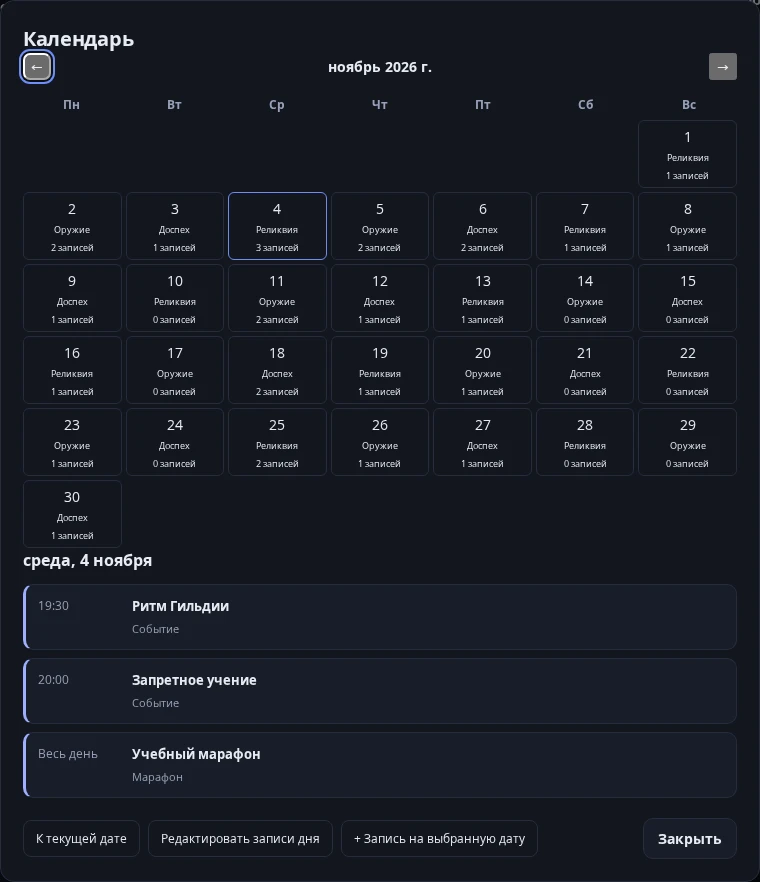
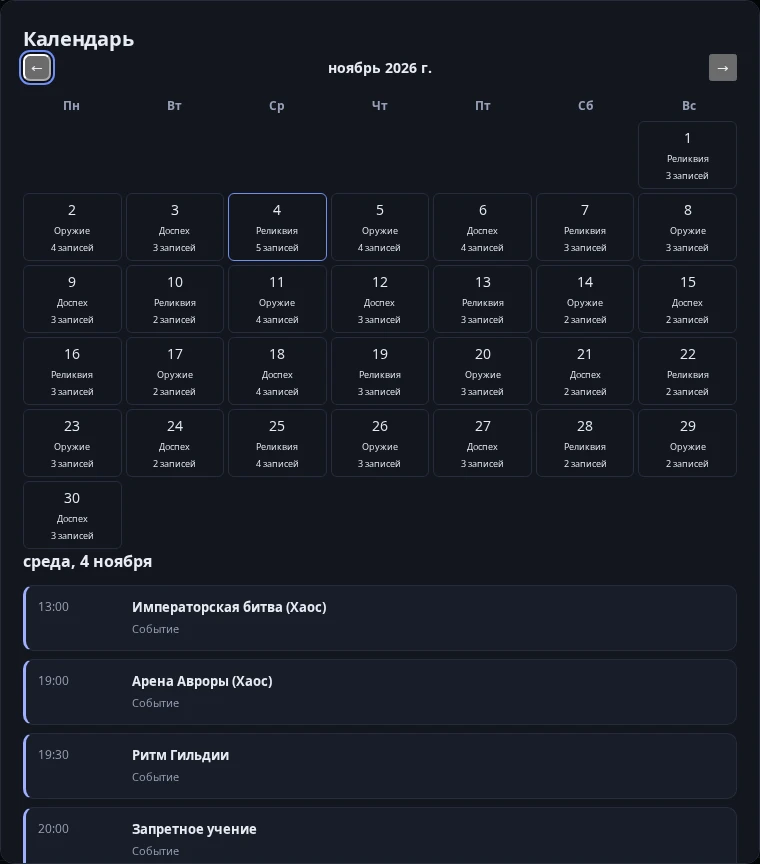
Add Today window decoration shortcut and Aurora/Imperial event schedules

diff --git a/js/modules/dashboard/referenceTodayView.js b/js/modules/dashboard/referenceTodayView.js
@@ -65,6 +65,7 @@ export function referencePromoStatus(p, today, now) {
     text: result.text
   };
 }
+const decorationState = { busy: false, text: '' };
 export function renderReferenceToday(input) {
   const s = connectedTodayState(input),
     date = selectedDate(s),
@@ -91,7 +92,7 @@ export function renderReferenceToday(input) {
        `<button type="button" data-day="${i - 1}" aria-pressed="${s.day.chosenDay === i - 1}"><small>${i === 1 ? 'Сегодня' : i === 0 ? 'Вчера' : new Date(`${d.date}T12:00:00Z`).toLocaleDateString('ru-RU', { weekday: 'short', timeZone: 'Europe/Moscow' })}</small>${pass(d.key, d.name)}<span>${d.date.slice(8)}.${d.date.slice(5, 7)}</span></button>`
    )
    .join('')}</div>
- <div class="rt-tabs" role="tablist" aria-label="Дела выбранного дня"><button type="button" role="tab" aria-selected="${tab === 'events'}" data-today-tab="events">События дня</button><button type="button" role="tab" aria-selected="${tab === 'todo'}" data-today-tab="todo">Список дел</button></div><div class="rt-events" role="tabpanel" aria-label="${tab === 'todo' ? 'Список дел' : 'События дня'}">${rows.map(e => `<div class="rt-event"><div>${tab === 'todo' ? `<label><input type="checkbox" data-today-todo="${esc(e.id || '')}" ${e.status === 'done' ? 'checked' : ''}>${esc(e.title)}</label>` : `<b>${esc(e.title)}</b>`}<small>${e.source === 'recurring' ? 'Автоматическое событие календаря' : e.source === 'marathon' ? 'Марафон' : 'Запись календаря'}</small></div><time>${esc(e.time || 'В течение дня')}${e.endTime ? '–' + esc(e.endTime) : ''}</time><button class="lg-text" data-today-event="${events.indexOf(e)}">Подробнее ↗</button></div>`).join('') || '<p class="lg-muted">На этот день записей нет.</p>'}</div><div class="rt-calendar-actions">${button('+ Добавить', 'event-add')}${button('Открыть день в календаре ↗', 'calendar', 'primary')}</div></section></div>
+ <div class="rt-tabs" role="tablist" aria-label="Дела выбранного дня"><button type="button" role="tab" aria-selected="${tab === 'events'}" data-today-tab="events">События дня</button><button type="button" role="tab" aria-selected="${tab === 'todo'}" data-today-tab="todo">Список дел</button></div><div class="rt-events" role="tabpanel" aria-label="${tab === 'todo' ? 'Список дел' : 'События дня'}">${rows.map(e => `<div class="rt-event"><div>${tab === 'todo' ? `<label><input type="checkbox" data-today-todo="${esc(e.id || '')}" ${e.status === 'done' ? 'checked' : ''}>${esc(e.title)}</label>` : `<b>${esc(e.title)}</b>`}${e.note ? `<button type="button" class="lg-text rt-event-info" data-today-info="${events.indexOf(e)}" title="${esc(e.note)}" aria-label="Пояснение: ${esc(e.title)}"><svg width="16" height="16" viewBox="0 0 24 24" fill="none" stroke="currentColor" stroke-width="2" aria-hidden="true"><circle cx="12" cy="12" r="9"/><path d="M12 11v6M12 7v1"/></svg></button>` : ''}<small>${e.source === 'recurring' ? 'Автоматическое событие календаря' : e.source === 'marathon' ? 'Марафон' : 'Запись календаря'}</small></div><time>${esc(e.time || 'В течение дня')}${e.endTime ? '–' + esc(e.endTime) : ''}</time><button class="lg-text" data-today-event="${events.indexOf(e)}">Подробнее ↗</button></div>`).join('') || '<p class="lg-muted">На этот день записей нет.</p>'}</div><div class="rt-calendar-actions">${button('+ Добавить', 'event-add')}${button('Открыть день в календаре ↗', 'calendar', 'primary')}</div></section></div>
  <div class="rt-right"><div class="rt-top"><section class="lg-panel rt-promos"><div class="rt-heading"><h3>Промокоды</h3><small>Действуют: ${promos.length}</small></div><div class="rt-promo-list">${
    promos
      .map(p => {
@@ -101,7 +102,7 @@ export function renderReferenceToday(input) {
      .join('') || '<p class="lg-muted">Действующих кодов пока не найдено.</p>'
  }</div><footer>${button('Открыть промокоды', 'promo', 'primary')}<button type="button" class="lg-button rt-refresh" data-today-action="promo-refresh" title="Проверить действующие промокоды в новостях" aria-label="Обновить промокоды">${refreshIcon}</button></footer></section>
  <section class="lg-panel rt-marathon"><div class="rt-heading"><h3>Марафон</h3>${!nativeToday() && !input.production ? '<span class="rt-pill">Пример</span>' : ''}</div>${s.scenarios.marathon ? `<h4>${esc(s.day.marathon.title)}</h4>${s.day.marathon.startDate > s.day.date ? '<span class="rt-pill">Скоро · ещё не начался</span>' : ''}<p class="rt-period">${esc(s.day.marathon.startDate || mskAddDays(s.day.date, 1))} — ${esc(s.day.marathon.endDate || mskAddDays(s.day.date, 31))}</p><div class="rt-reward-heading"><span>Задачи</span><small>Максимальная награда${!nativeToday() && !input.production ? ' · пример' : ''}</small></div>${s.day.marathonTasks.map((t, i) => `<details class="rt-marathon-task"><summary><span>${esc(t.title)}</span><b>${esc(t.maxReward || (!nativeToday() && !input.production ? ['30 монет', '10 припасов', '3 награды'][i] : 'Не указана') || '—')}</b></summary><p>${esc(t.description || 'Условия задания — в полном разделе марафона.')}</p></details>`).join('')}<button class="rt-progress-link" data-go-source="marathons"><span>Прогресс дня <b>Открыть раздел ↗</b></span><span class="rt-progress-track"><i style="width:${s.day.marathon.percent}%"></i></span><small>${s.day.marathon.percent}%</small></button>` : '<p>Нет активного марафона.</p><button type="button" class="lg-button" data-go-source="marathons">Открыть марафоны ↗</button>'}</section></div>
- <section class="lg-panel rt-launch"><div class="rt-heading"><h3>Быстрый запуск</h3></div><div class="rt-launch-main"><div><small>ВЫБРАННЫЙ ОТРЯД</small><h3>${esc(party?.label || 'Отряд не выбран')}</h3><p>Персонажей: ${members.length}</p></div><div class="rt-people">${members.map(member).join('')}</div></div><label class="rt-party-select">Выбрать отряд<select class="lg-input" data-party-select>${s.parties.map(p => `<option value="${esc(p.id)}" ${p.id === party?.id ? 'selected' : ''}>${esc(p.label || p.name)}</option>`).join('')}</select></label><div class="rt-launch-actions">${button('Запустить выбранный отряд', 'launch', 'primary')}${button('Текущие рабочие окна игры', 'windows')}</div><small>Штатный запуск: проверки GameCenter, привязок, уже открытых окон и подтверждение.</small></section>
+ <section class="lg-panel rt-launch"><div class="rt-heading"><h3>Быстрый запуск</h3></div><div class="rt-launch-main"><div><small>ВЫБРАННЫЙ ОТРЯД</small><h3>${esc(party?.label || 'Отряд не выбран')}</h3><p>Персонажей: ${members.length}</p></div><div class="rt-people">${members.map(member).join('')}</div></div><label class="rt-party-select">Выбрать отряд<select class="lg-input" data-party-select>${s.parties.map(p => `<option value="${esc(p.id)}" ${p.id === party?.id ? 'selected' : ''}>${esc(p.label || p.name)}</option>`).join('')}</select></label><div class="rt-launch-actions">${button('Запустить выбранный отряд', 'launch', 'primary')}${button('Текущие рабочие окна игры', 'windows')}<button type="button" class="lg-button rt-decoration-button" data-today-action="decorate-windows" title="Названия и значки" aria-label="Названия и значки" ${decorationState.busy ? 'disabled' : ''}>🔖</button><span class="rt-decoration-progress" role="status" aria-live="polite" data-today-decoration-progress>${esc(decorationState.text)}</span></div><small>Штатный запуск: проверки GameCenter, привязок, уже открытых окон и подтверждение.</small></section>
  <section class="lg-panel rt-information"><div class="rt-heading"><h3>Информационная панель</h3></div><dl class="rt-information-grid">${[
    ['Золото', s.day.gold],
    ['Голд', s.day.bank],
@@ -215,6 +216,11 @@ export function bindReferenceToday({ root, dialog, getState, render, modal, toas
       planner.day(selectedDate(s));
       return;
     }
+    if (el.hasAttribute('data-today-info')) {
+      const info = referenceDayEvents(s)[Number(el.dataset.todayInfo)];
+      if (info) modal(info.title, `<p>${esc(info.time)}–${esc(info.endTime)} (МСК)</p><p>${esc(info.note)}</p>`);
+      return;
+    }
     if (el.hasAttribute('data-today-event')) {
       if (planner?.day) {
         dialog.close();
@@ -249,6 +255,26 @@ export function bindReferenceToday({ root, dialog, getState, render, modal, toas
       return;
     }
     const action = el.dataset.todayAction;
+    if (action === 'decorate-windows') {
+      if (decorationState.busy) return;
+      decorationState.busy = true;
+      decorationState.text = '0% · Получаю список окон…';
+      render();
+      try {
+        const result = await execute(action, {
+          onProgress: p => {
+            decorationState.text = `${p.percent}% · ${p.nick || (p.phase === 'done' ? 'Обработано' : 'Запрашиваю права администратора…')}`;
+            const status = root.querySelector('[data-today-decoration-progress]');
+            if (status) status.textContent = decorationState.text;
+          }
+        });
+        if (!result.ok) decorationState.text = 'Не завершено: проверьте сообщение';
+      } finally {
+        decorationState.busy = false;
+        render();
+      }
+      return;
+    }
     if (action === 'calendar') {
       raw.referenceMonth = 0;
       calendar();

diff --git a/tests/recurringEvents.test.js b/tests/recurringEvents.test.js
@@ -6,6 +6,7 @@ import {
   recurringDurationMinutes,
   recurringEventScheduleText,
   weekdayOf,
+  imperialBattleMode,
   WEEKDAY_NAMES
 } from '../js/modules/dashboard/recurringEvents.js';
 import { plannerEventsForDate, normalizePlannerEntry } from '../js/modules/dashboard/planner.js';
@@ -32,15 +33,17 @@ describe('постоянные ивенты', () => {
     expect(titles(MON)).toContain('Битва Династий');
     expect(titles(FRI)).toContain('Битва Династий');
     expect(titles(WED)).not.toContain('Битва Династий');
-    expect(titles(SAT)).toEqual([]);
+    expect(titles(SAT)).not.toContain('Битва Династий');
   });
 
-  it('в среду два ивента: Ритм Гильдии и Запретное учение', () => {
-    expect(recurringEventsForDate(WED).map(e => e.title)).toEqual(['Ритм Гильдии', 'Запретное учение']);
+  it('сохраняет Ритм Гильдии и Запретное учение в среду', () => {
+    expect(recurringEventsForDate(WED).map(e => e.title)).toEqual(
+      expect.arrayContaining(['Ритм Гильдии', 'Запретное учение'])
+    );
   });
 
   it('Арена Героев в четверг до конца суток', () => {
-    const [arena] = recurringEventsForDate(THU);
+    const arena = recurringEventsForDate(THU).find(e => e.recurringId === 'hero-arena');
     expect(arena.title).toBe('Арена Героев');
     expect(arena.time).toBe('19:00');
     expect(arena.endTime).toBe('24:00');
@@ -69,7 +72,7 @@ describe('постоянные ивенты', () => {
   it('битая дата и чужой день дают пустой список', () => {
     expect(recurringEventsForDate('')).toEqual([]);
     expect(recurringEventsForDate('2026-13-45')).toEqual([]);
-    expect(recurringEventsForDate(SAT)).toEqual([]);
+    expect(recurringEventsForDate(SAT)).toHaveLength(2);
   });
 
   it('день недели считается по календарной дате без часовых поясов', () => {
@@ -92,4 +95,32 @@ describe('постоянные ивенты', () => {
     }
     expect(Object.keys(DEFAULT_SETTINGS.notifications.events).sort()).toEqual(RECURRING_EVENTS.map(e => e.id).sort());
   });
+});
+
+it('сохраняет расписание Авроры и пояснение об экипировке во все семь дней', () => {
+  for (let day = 2; day <= 8; day++) {
+    const date = `2026-11-${String(day).padStart(2, '0')}`;
+    const arena = recurringEventsForDate(date).find(e => e.recurringId.startsWith('aurora-'));
+    expect(arena.title).toBe(`Арена Авроры (${[2, 4, 6, 8].includes(day) ? 'Хаос' : 'Порядок'})`);
+    expect(arena).toMatchObject({ time: '19:00', endTime: '23:00', durationMinutes: 240 });
+    expect(arena.note).toContain('Хаос — свой шмот');
+    expect(arena.note).toContain('Порядок — равный шмот');
+  }
+});
+it('меняет режим ИБ именно в среду, в обе стороны от подтверждённой недели', () => {
+  for (const date of ['2026-11-04', '2026-11-10', '2026-11-18', '2026-10-21', '2026-12-30', '2027-01-05'])
+    expect(imperialBattleMode(date)).toBe('Хаос');
+  for (const date of ['2026-11-03', '2026-11-11', '2026-11-17', '2026-10-28', '2027-01-06'])
+    expect(imperialBattleMode(date)).toBe('Порядок');
+  const battle = recurringEventsForDate('2026-11-04').find(e => e.recurringId === 'imperial-battle');
+  expect(battle).toMatchObject({
+    title: 'Императорская битва (Хаос)',
+    time: '13:00',
+    endTime: '22:30',
+    durationMinutes: 570
+  });
+  expect(recurringEventsForDate('2026-11-11').find(e => e.recurringId === 'imperial-battle').title).toBe(
+    'Императорская битва (Порядок)'
+  );
+  expect(imperialBattleMode('2026-02-30')).toBeNull();
 });

diff --git a/tests/plannerTime.test.js b/tests/plannerTime.test.js
@@ -24,6 +24,7 @@ beforeEach(async () => {
 });
 
 afterEach(() => {
+  vi.restoreAllMocks();
   vi.useRealTimers();
   vi.restoreAllMocks();
 });
@@ -52,7 +53,7 @@ describe('календарь: записи в ячейке месяца', () => 
   it('запись без времени показана названием, подсказка без времени', () => {
     state.plannerEntries = [entry({ id: 'p1', title: 'Без времени', date: '2026-10-06', time: '', color: 'green' })];
     const day = cell(plannerHtml(state), '2026-10-06');
-    expect(chips(day)).toEqual(['Без времени']);
+    expect(chips(day)).toContain('Без времени');
     expect(day.getAttribute('title')).toContain('Без времени');
     expect(day.getAttribute('title')).not.toMatch(/\d\d:\d\d Без времени/);
   });
@@ -71,19 +72,22 @@ describe('календарь: записи в ячейке месяца', () => 
     const day = cell(plannerHtml(state), '2026-10-07');
     const titles = chips(day);
     expect(titles.some(t => t.includes('Ритм Гильдии'))).toBe(true);
-    expect(titles.some(t => t.includes('Запретное учение'))).toBe(true);
+    expect(day.getAttribute('title')).toContain('Запретное учение');
     expect(day.getAttribute('title')).toContain('19:30 Ритм Гильдии');
     expect(day.getAttribute('title')).toContain('20:00 Запретное учение');
   });
 
-  it('в понедельник идёт Битва Династий, в субботу — ничего', () => {
+  it('Битва Династий остаётся в понедельник, а в субботу идёт Аврора', () => {
     const mon = cell(plannerHtml(state), '2026-10-05');
     expect(chips(mon).join(' ')).toContain('Битва Династий');
     const sat = cell(plannerHtml(state), '2026-10-10');
-    expect(sat.querySelector('.planner-chip')).toBeNull();
+    expect(chips(sat).join(' ')).not.toContain('Битва Династий');
+    expect(chips(sat).join(' ')).toContain('Арена Авроры (Порядок)');
   });
 
-  it('пустой день не рисует меток', () => {
+  it('пустой день не рисует меток', async () => {
+    const recurring = await import('../js/modules/dashboard/recurringEvents.js');
+    vi.spyOn(recurring, 'recurringEventsForDate').mockReturnValue([]);
     const day = cell(plannerHtml(state), '2026-10-11');
     expect(day.querySelectorAll('.planner-chip')).toHaveLength(0);
   });
@@ -172,7 +176,9 @@ describe('окно дня: полная шкала 00:00–24:00', () => {
     expect(row.textContent).toContain('10:00–11:00');
   });
 
-  it('пустой день говорит об этом прямо', () => {
+  it('пустой день говорит об этом прямо', async () => {
+    const recurring = await import('../js/modules/dashboard/recurringEvents.js');
+    vi.spyOn(recurring, 'recurringEventsForDate').mockReturnValue([]);
     openPlannerDay('2026-10-11', {});
     expect(document.getElementById('modal-root').textContent).toContain('На этот день записей нет');
   });

diff --git a/tests/referenceToday.test.js b/tests/referenceToday.test.js
@@ -252,3 +252,38 @@ it('keeps the To-Do checkbox without the three-state cycling control', () => {
   expect($('[data-today-status]')).toBeNull();
   expect($('.rt-events').textContent).not.toMatch(/Ожидает|В работе|Выполнено/);
 });
+
+it('places the decoration icon after running windows and displays progress without repeat submission', async () => {
+  let finish;
+  mocks.actions.mockImplementationOnce(async (action, { onProgress }) => {
+    expect(action).toBe('decorate-windows');
+    onProgress({ percent: 50, nick: 'Test', phase: 'apply' });
+    await new Promise(resolve => {
+      finish = resolve;
+    });
+    onProgress({ percent: 100, phase: 'done' });
+    return { ok: true };
+  });
+  const buttons = [...document.querySelectorAll('.rt-launch-actions button')];
+  expect(buttons.map(b => b.dataset.todayAction)).toEqual(['launch', 'windows', 'decorate-windows']);
+  buttons[2].click();
+  await vi.waitFor(() => expect($('[data-today-decoration-progress]').textContent).toContain('50%'));
+  expect($('[data-today-action="decorate-windows"]').disabled).toBe(true);
+  $('[data-today-action="decorate-windows"]').click();
+  expect(mocks.actions).toHaveBeenCalledTimes(1);
+  finish();
+  await vi.waitFor(() => expect($('[data-today-action="decorate-windows"]').disabled).toBe(false));
+  expect($('[data-today-decoration-progress]').textContent).toContain('100%');
+});
+
+it('opens the equipment explanation from the event info button', () => {
+  state.day.date = '2026-11-04';
+  state.day.chosenDay = 0;
+  render();
+  const info = [...document.querySelectorAll('[data-today-info]')].find(b => b.title.includes('свой шмот'));
+  expect(info).toBeTruthy();
+  info.click();
+  expect(dialog.textContent).toContain('Хаос — свой шмот');
+  expect(dialog.textContent).toContain('Порядок — равный шмот');
+  expect(dialog.textContent).toContain('19:00–23:00 (МСК)');
+});

diff --git a/js/modules/dashboard/todayRuntime.js b/js/modules/dashboard/todayRuntime.js
@@ -84,7 +84,7 @@ export function connectedTodayState(preview) {
     )
   };
 }
-export async function runTodayAction(action, { partyId, eventId, response, date, title, time, kind } = {}) {
+export async function runTodayAction(action, { partyId, eventId, response, date, title, time, kind, onProgress } = {}) {
   if (!nativeToday())
     return {
       ok: false,
@@ -99,7 +99,16 @@ export async function runTodayAction(action, { partyId, eventId, response, date,
     if (!party) return { ok: false, message: 'Выбранный отряд не найден в приложении.' };
     await (await import('../launcher/partyLaunch.js')).launchPartyByName(party.name);
   } else if (action === 'windows') await (await import('../launcher/windowPicker.js')).openWindowPicker();
-  else if (action === 'promo') (await import('../automation/promo.js')).openPromoDialog();
+  else if (action === 'decorate-windows') {
+    const { runningClientDetails, redecorateRunningWindows, redecorateText } = await import('../launcher/launch.js');
+    const { windowRows } = await import('../launcher/windowList.js');
+    const rows = windowRows(await runningClientDetails(), state.characters);
+    const result = await redecorateRunningWindows(rows, { onProgress });
+    return {
+      ok: result.ok + result.fixed > 0 && !result.failed,
+      message: redecorateText(result) || 'Нет опознанных окон игры для переподписи.'
+    };
+  } else if (action === 'promo') (await import('../automation/promo.js')).openPromoDialog();
   else if (action === 'clan-open') await (await import('../guild/window.js')).openGuild();
   else if (action === 'clan-refresh') {
     if (!(await (await import('../guild/page.js')).syncGuild()))

diff --git a/tests/todayWindowDecoration.test.js b/tests/todayWindowDecoration.test.js
@@ -1,0 +1,33 @@
+import { beforeEach, expect, it, vi } from 'vitest';
+const mocks = vi.hoisted(() => ({
+  details: vi.fn(async () => [{ pid: 1 }]),
+  rows: vi.fn(() => [{ pid: 1, known: true, nick: 'A' }]),
+  decorate: vi.fn(async () => ({ ok: 0, fixed: 1, failed: 0 })),
+  summary: vi.fn(() => 'Окон: 1')
+}));
+vi.mock('../js/modules/launcher/launch.js', () => ({
+  runningClientDetails: mocks.details,
+  redecorateRunningWindows: mocks.decorate,
+  redecorateText: mocks.summary
+}));
+vi.mock('../js/modules/launcher/windowList.js', () => ({ windowRows: mocks.rows }));
+import { runTodayAction } from '../js/modules/dashboard/todayRuntime.js';
+beforeEach(() => {
+  vi.clearAllMocks();
+  window.__TAURI_INTERNALS__ = {};
+});
+it('decorates real running windows through the shared sequential implementation, forwarding progress', async () => {
+  const onProgress = vi.fn();
+  expect((await runTodayAction('decorate-windows', { onProgress })).ok).toBe(true);
+  expect(mocks.details).toHaveBeenCalledOnce();
+  expect(mocks.decorate).toHaveBeenCalledWith([{ pid: 1, known: true, nick: 'A' }], { onProgress });
+});
+it('does not report partial failure as successful completion', async () => {
+  mocks.decorate.mockResolvedValueOnce({ ok: 0, fixed: 1, failed: 1 });
+  expect((await runTodayAction('decorate-windows')).ok).toBe(false);
+});
+it('never attempts native decoration in a browser preview', async () => {
+  delete window.__TAURI_INTERNALS__;
+  expect((await runTodayAction('decorate-windows')).ok).toBe(false);
+  expect(mocks.details).not.toHaveBeenCalled();
+});

diff --git a/tests/planner.test.js b/tests/planner.test.js
@@ -113,8 +113,8 @@ describe('месячный планер', () => {
   it('постоянные ивенты попадают в план дня и остаются источником recurring', () => {
     const state = { plannerEntries: [], marathons: [] };
     const wed = plannerEventsForDate(state, '2026-06-10').filter(e => e.source === 'recurring');
-    expect(wed.map(e => e.title)).toEqual(['Ритм Гильдии', 'Запретное учение']);
-    expect(plannerEventsForDate(state, '2026-06-13').filter(e => e.source === 'recurring')).toEqual([]);
+    expect(wed.map(e => e.title)).toEqual(expect.arrayContaining(['Ритм Гильдии', 'Запретное учение']));
+    expect(plannerEventsForDate(state, '2026-06-13').filter(e => e.source === 'recurring')).toHaveLength(2);
   });
 
   // Свойство отметок по дням: у повтора состояние не общее, иначе «сделал вчера»

diff --git a/js/modules/dashboard/plannerView.js b/js/modules/dashboard/plannerView.js
@@ -362,7 +362,7 @@ function eventRow(event) {
         : `<span class="planner-lock" title="Постоянный ивент: идёт каждую неделю по расписанию">расписание</span>`;
   return `<li class="planner-day-row${event.status === 'done' ? ' is-done' : ''} is-source-${escapeHtml(event.source || 'manual')}">
     <span class="planner-color is-${escapeHtml(event.color || 'blue')}"></span>
-    <span class="planner-day-copy"><b>${escapeHtml(event.title)}</b><small class="muted">${escapeHtml(meta)}</small></span>
+    <span class="planner-day-copy"><b>${escapeHtml(event.title)}</b>${event.note ? `<span tabindex="0" role="img" title="${escapeHtml(event.note)}" aria-label="${escapeHtml(event.note)}"> ⓘ</span>` : ''}<small class="muted">${escapeHtml(meta)}</small></span>
     ${actions}
   </li>`;
 }

diff --git a/js/core/constants.js b/js/core/constants.js
@@ -182,7 +182,10 @@ export const DEFAULT_SETTINGS = {
       'dynasty-battle': { enabled: true, leadMinutes: 10 },
       'guild-rhythm': { enabled: true, leadMinutes: 10 },
       'forbidden-teaching': { enabled: true, leadMinutes: 10 },
-      'hero-arena': { enabled: true, leadMinutes: 10 }
+      'hero-arena': { enabled: true, leadMinutes: 10 },
+      'aurora-chaos': { enabled: true, leadMinutes: 10 },
+      'aurora-order': { enabled: true, leadMinutes: 10 },
+      'imperial-battle': { enabled: true, leadMinutes: 10 }
     }
   },
   // Видимые окна браузера персонажей

diff --git a/css/modules/todayReference.css b/css/modules/todayReference.css
@@ -1067,3 +1067,15 @@
   border: 1px dashed var(--line);
   border-radius: 10px;
 }
+
+.rt-decoration-button {
+  flex: 0 0 auto;
+}
+.rt-decoration-progress {
+  font-size: 12px;
+  color: var(--muted);
+}
+.rt-event-info {
+  margin-left: 6px;
+  cursor: help;
+}

diff --git a/CHANGELOG.md b/CHANGELOG.md
@@ -20,6 +20,12 @@
 - Обновлены «Сегодня», календарь, импорт наград марафона, инструкции и снимки интерфейса.
 - Улучшены безопасный выбор источника контактов, импорт «Банка», очередь запуска и отмена ожидающих задач.
 
+### События и быстрый запуск
+
+- На «Сегодня» после «Текущие рабочие окна игры» добавлена кнопка 🔖 «Названия и значки»: повторное оформление окон запускается сразу, с процентом и ником рядом.
+- Арена Авроры — 19:00–23:00 МСК. Хаос: понедельник, среда, пятница, воскресенье; Порядок: вторник, четверг, суббота. В пояснении ⓘ: Хаос — свой шмот, Порядок — равный шмот.
+- Императорская битва — ежедневно 13:00–22:30 МСК. Режим меняется по средам: 4–10 ноября 2026 — Хаос, 11–17 ноября — Порядок, далее через неделю. Название события и уведомление учитывают режим выбранной даты.
+
 ### Исправления перед выпуском
 
 - Локальные иконки больше не откладывают загрузку в свёрнутых списках. Они размещаются непосредственно перед названием с размером 18×18, в журнале промокодов используется тот же рендерер. Количество, привязка и исходный текст сохраняются, у неизвестной награды остаётся точка.
